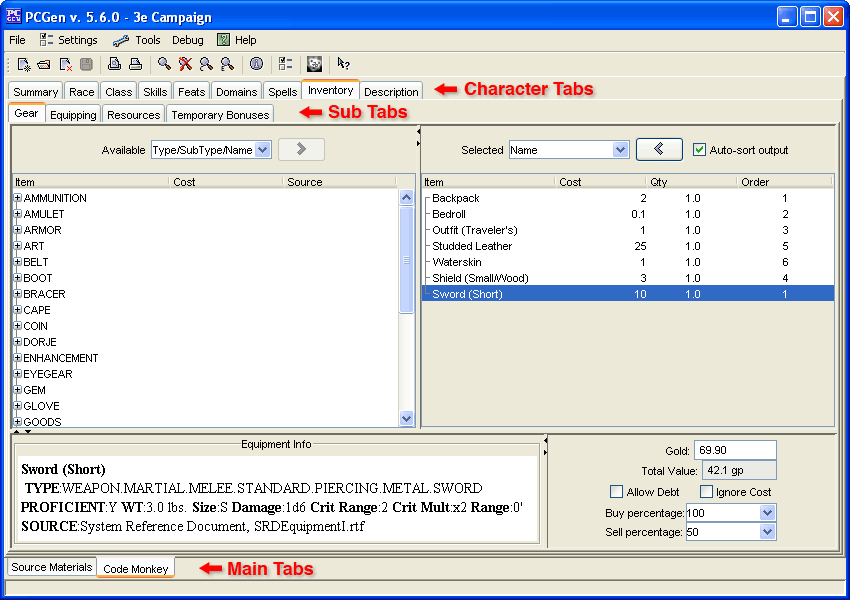
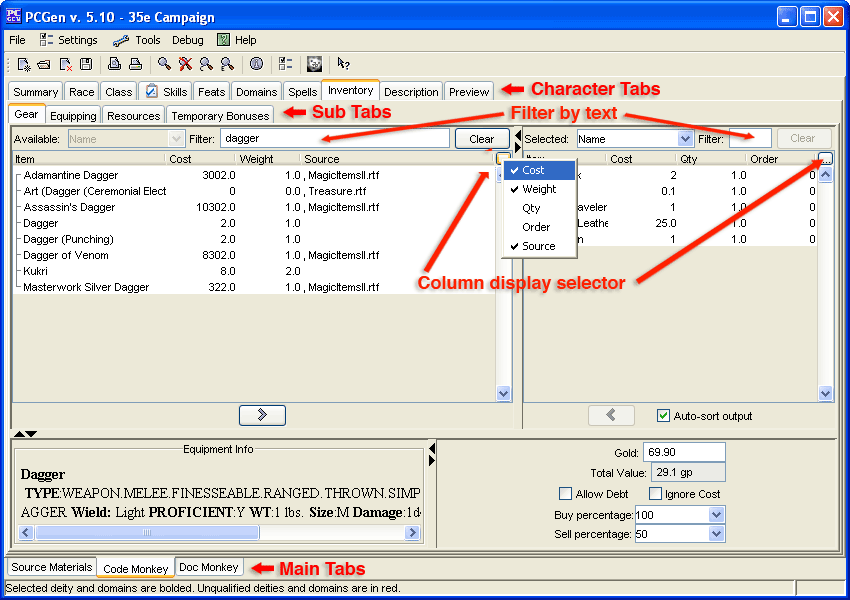
[ 1456697 ] Update walk-through for 5.10
git-svn-id: svn+ssh://svn.code.sf.net/p/pcgen/code/Trunk@832 ef53c05b-3124-4d59-ae7d-fe3273f42be7

diff --git a/docs/tabpages/tabsectionheading.html b/docs/tabpages/tabsectionheading.html
@@ -45,6 +45,25 @@
 		
 		<p>Click on the desired Tab with the mouse and the screen will change to display
 		that section.</p>
+		
+		<h1>Common interface elements</h1>
+		
+		<p>Many tabs in PCGen have common interface elements to aid in finding and sorting through the lists.</p>
+		
+		<p>The Filter field allows you to search for items by any text you enter, 
+		PCGen will display only those items which have names or types that match the text entered, 
+		this is the reason the Kukri is displayed when filtering for the word &quot;dagger&quot;, it has the &quot;Dagger&quot; type. 
+		If you have applied any other filters by using the Filter tool 
+		the text filter will limit it's search to those not filtered out by the filter tool. 
+		In other words the items displayed will match both the Filter tool and the text Filter.</p>
+		
+		<p>On the right side of many of the lists column label row is a small icon with three dots in it 
+		<img src="../images/tabs/column_icon.png">. 
+		When clicked this will produce a pop up menu displaying all the possible columns the list can display 
+		with a check mark beside each item currently enabled. 
+		Selecting any item will change it's state from either being displayed or hidden.</p>
+		
+		
 		<!-- <p class="cvsfooter">$Source: /cvsroot/pcgendocs/pcgendocs/docs/tabpages/tabsectionheading.html,v $ ($Revision$) last updated $Date$ by $Author$</p> -->
 	</body>
 
